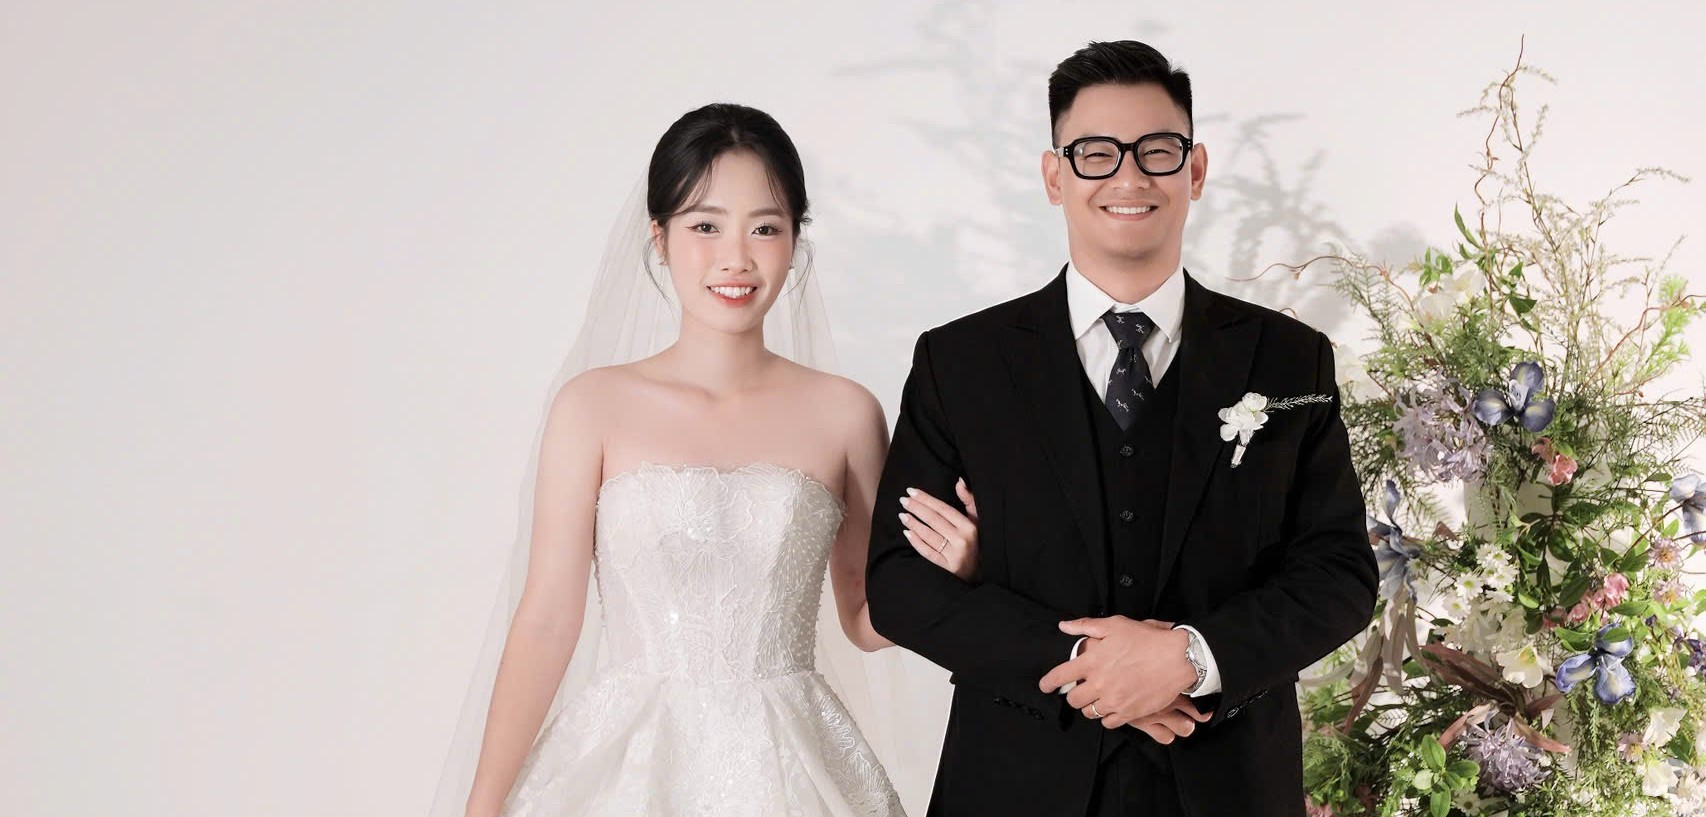
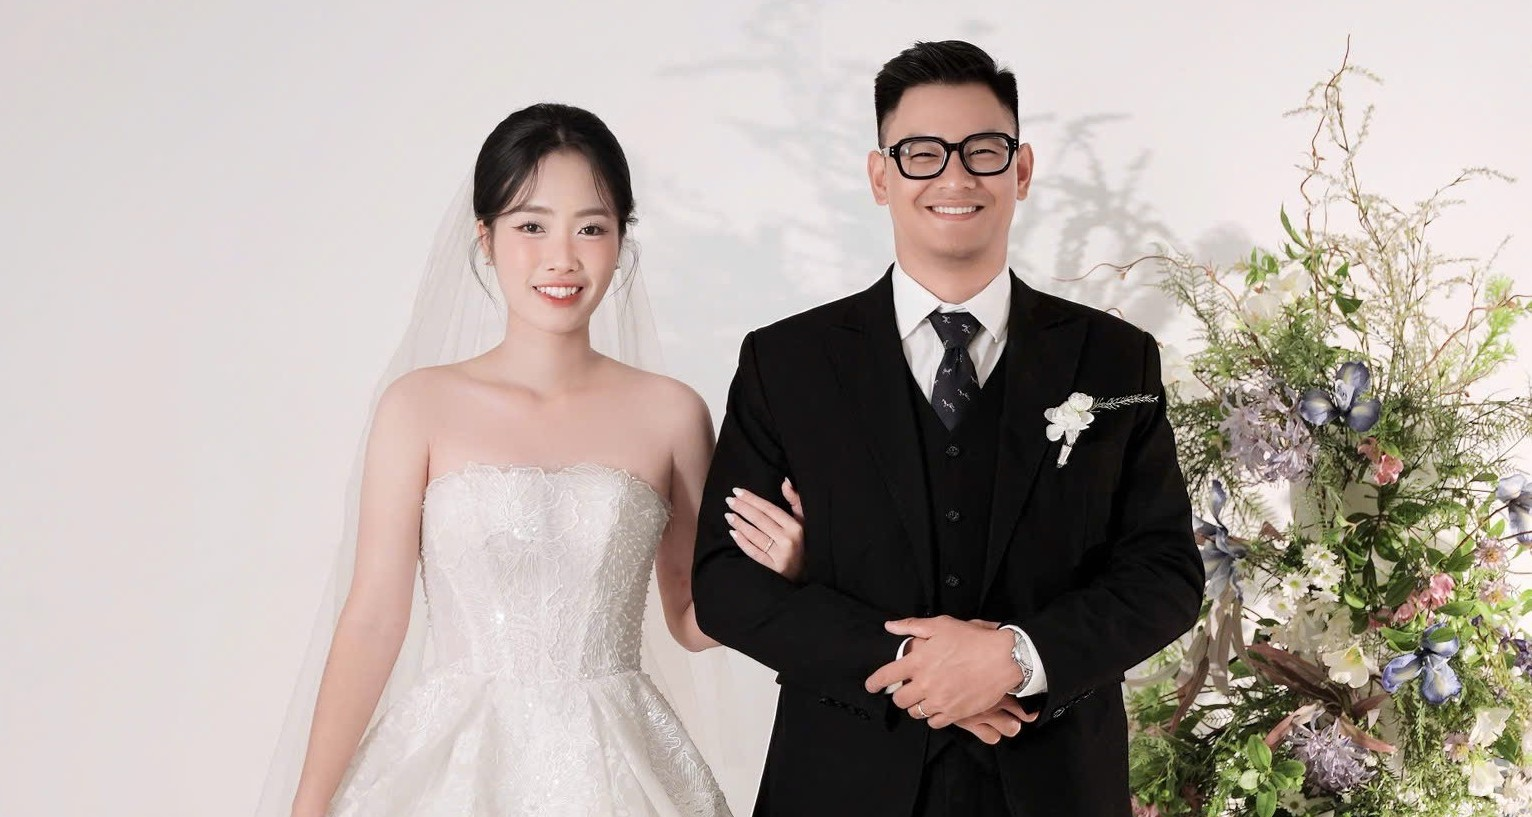
DONE

diff --git a/index.html b/index.html
@@ -2,7 +2,7 @@
     <meta charset="UTF-8">
     <meta name="viewport" content="width=device-width, initial-scale=1">
     <link rel="profile" href="https://gmpg.org/xfn/11">
-    <meta property="og:image" content="https://lswedding.s3.ap-southeast-1.amazonaws.com/weddings/40/RfKFvVWBS8C3Eo96tr3lIrpm1LuqeJT01urrkmus.jpg">
+    <meta property="og:image" content="https://lswedding.s3.ap-southeast-1.amazonaws.com/weddings/30/q2nlLfq0E0bmJ4xrc5b6jBGBHo2jdMVWlZN4Bbrg.jpg">
 
     <!-- Search Engine Optimization by Rank Math - https://rankmath.com/ -->
     <title>Minh chiến ❤ Thu uyên - Thiệp cưới online</title>
@@ -14,15 +14,15 @@
     <meta property="og:url" content="https://thiepmoionline68.github.io/UyenChien-Wedding/">
     <meta property="og:site_name" content="Minh chiến ❤ Thu uyên">
     <meta property="og:updated_time" content="2024-03-28T03:41:34+00:00">
-    <meta property="og:image" content="https://lswedding.s3.ap-southeast-1.amazonaws.com/weddings/40/RfKFvVWBS8C3Eo96tr3lIrpm1LuqeJT01urrkmus.jpg">
-    <meta property="og:image:secure_url" content="https://lswedding.s3.ap-southeast-1.amazonaws.com/weddings/40/RfKFvVWBS8C3Eo96tr3lIrpm1LuqeJT01urrkmus.jpg">
+    <meta property="og:image" content="https://lswedding.s3.ap-southeast-1.amazonaws.com/weddings/30/q2nlLfq0E0bmJ4xrc5b6jBGBHo2jdMVWlZN4Bbrg.jpg">
+    <meta property="og:image:secure_url" content="https://lswedding.s3.ap-southeast-1.amazonaws.com/weddings/30/q2nlLfq0E0bmJ4xrc5b6jBGBHo2jdMVWlZN4Bbrg.jpg">
     <meta property="og:image:width" content="426">
     <meta property="og:image:height" content="639">
     <meta property="og:image:alt" content="Minh chiến ❤ Thu uyên">
     <meta property="og:image:type" content="image/jpeg">
     <meta name="twitter:card" content="summary_large_image">
     <meta name="twitter:title" content="Minh chiến ❤ Thu uyên - Thiệp cưới online">
-    <meta name="https://lswedding.s3.ap-southeast-1.amazonaws.com/weddings/40/RfKFvVWBS8C3Eo96tr3lIrpm1LuqeJT01urrkmus.jpg">
+    <meta name="https://lswedding.s3.ap-southeast-1.amazonaws.com/weddings/30/q2nlLfq0E0bmJ4xrc5b6jBGBHo2jdMVWlZN4Bbrg.jpg">
     <!-- /Rank Math WordPress SEO plugin -->
 
     <link rel="dns-prefetch" href="//cdn.jsdelivr.net">
@@ -847,7 +847,7 @@
                     <div class="invitation-card"> <img src="images/DjwxrNDEnMDPzdgYR2GOEPtCmpfmtxVo37OkuJjf.jpg" alt="">
                         <h3 class="card-title uk-margin-remove">Tiệc Nhà Gái</h3>
                         <address class="uk-margin-remove">
-                            <p>19/20 ngõ 823 đường Hồng Hà phường Hồng Hà , Hà Nội</p>
+                            <p>124 đường La Thành, Ô Chợ Dừa, Đống Đa, Hà Nội</p>
                         </address>
                         <div class="invitation-body">
                             <div class="invi_time">
